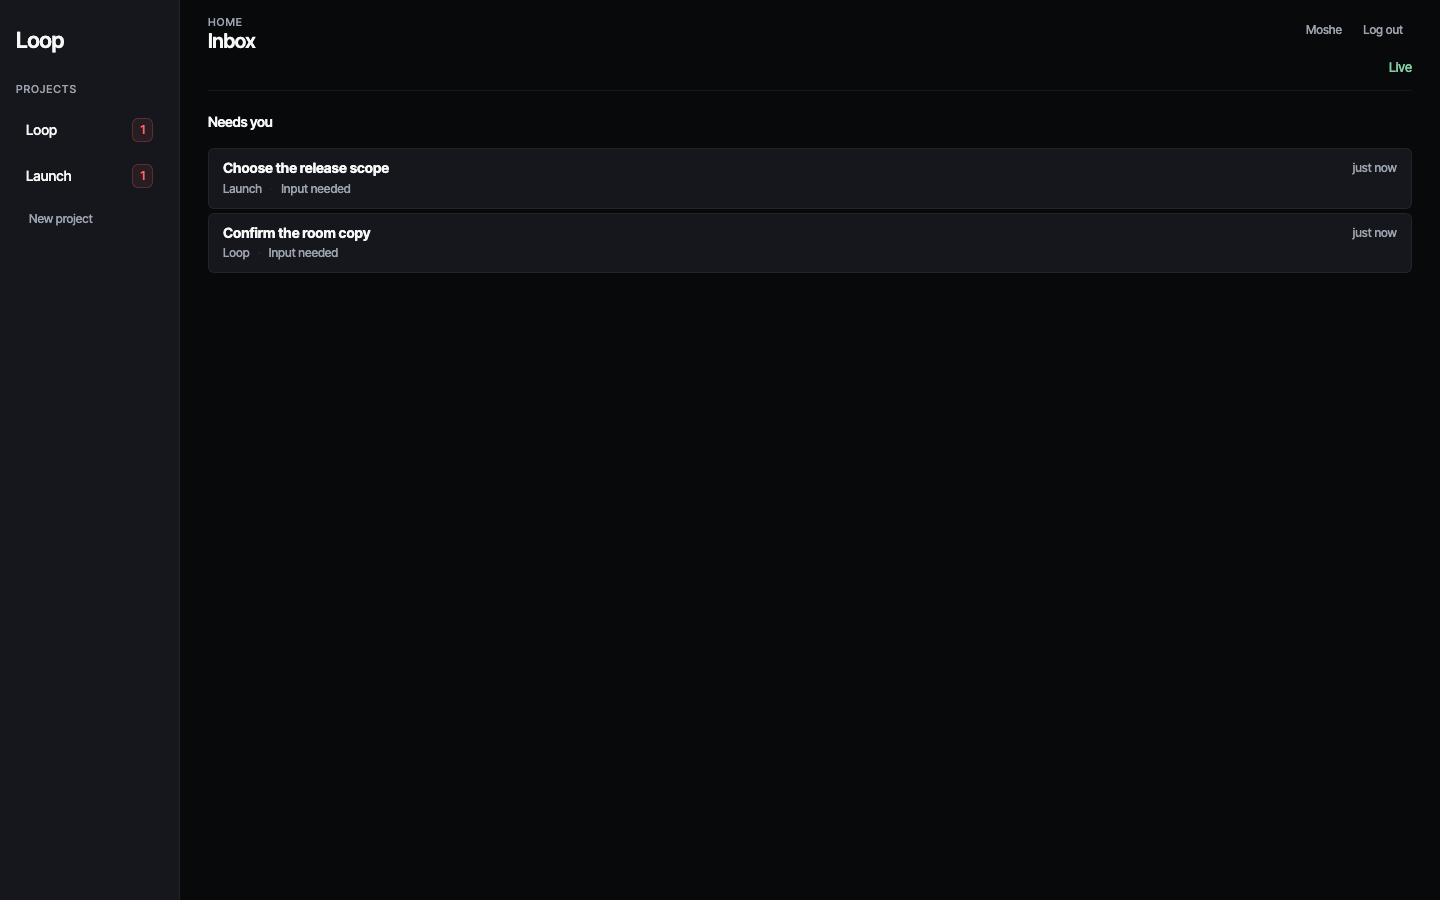
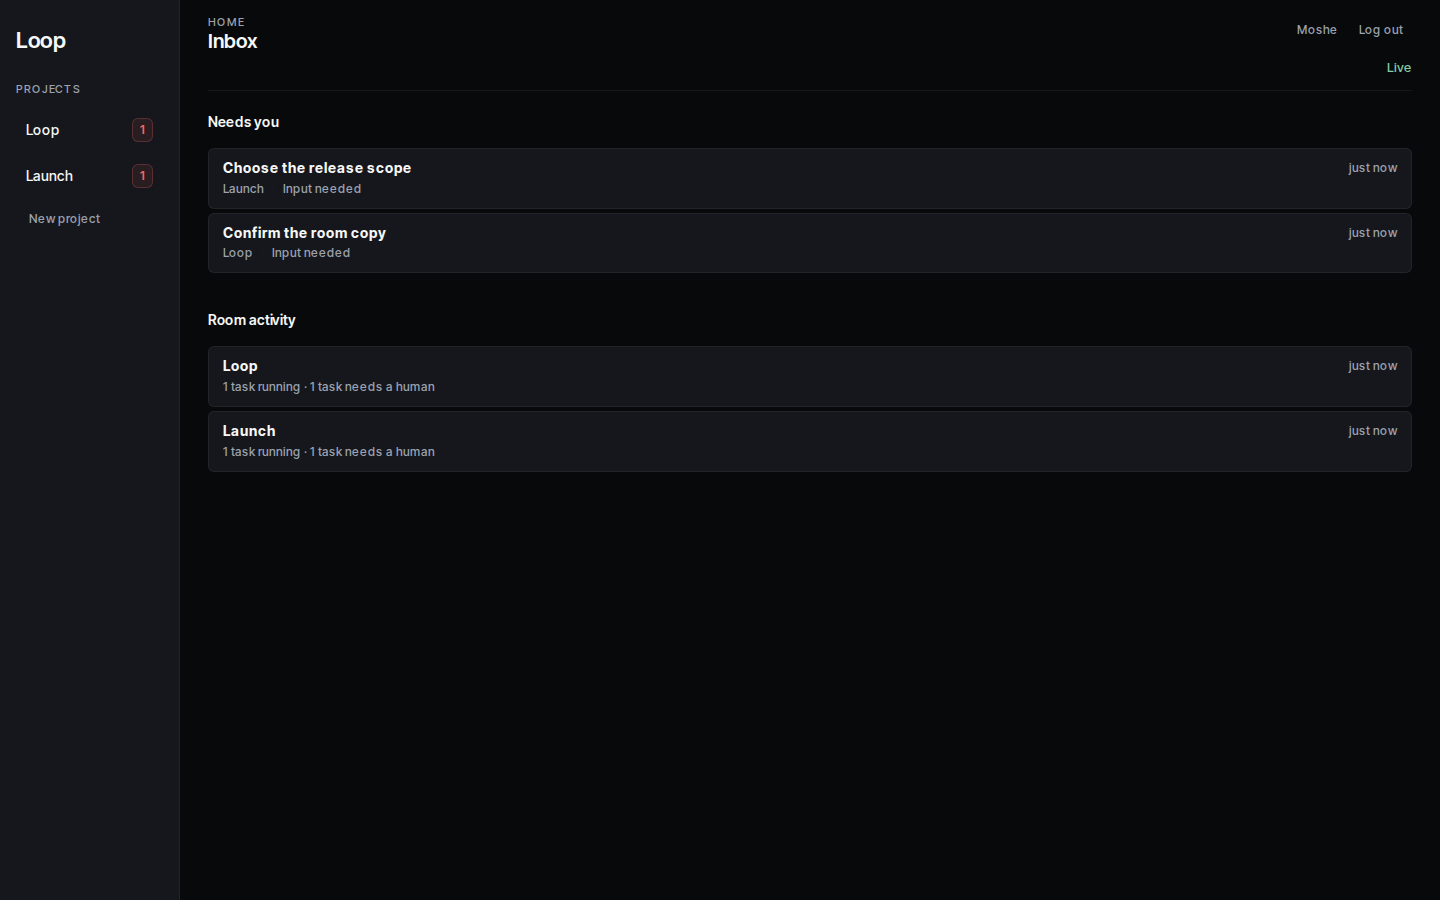
Show recent activity per room on Home.
UI.md section 7 asks Home to aggregate three things across rooms. "Needs
you" already shipped; this adds the second, "Recent activity per room, one
line each". "Spend today across all crews" stays untouched.

Home already holds every room's tasks client side, so RoomActivity reads the
same list the "Needs you" queue reads. No endpoint, no dependency, no fetch.

Each row is a button carrying data-room, showing the room name, a count line
in the repository's task vocabulary ("2 tasks running", "1 task needs a
human"), and the relative time of the newest task update. Rooms sort by the
newest task updatedAt, and a room nobody has used yet sorts last and reads
"No activity yet". Clicking a row calls the same selectRoom the rail calls,
so the URL becomes /?room=<id>.

tests/inbox-activity.spec.ts guards the region, the exact room set, the
order, the rendered counts, the empty-room line, and the click-through.

EVIDENCE.md is regenerated because the generator enumerates tests/*.spec.ts.

diff --git a/tests/inbox-activity.spec.ts b/tests/inbox-activity.spec.ts
@@ -1,0 +1,104 @@
+import { test, expect, type BrowserContext } from '@playwright/test';
+import type { Task } from '@loop/types';
+import { spawn } from 'node:child_process';
+import { mkdtempSync, rmSync } from 'node:fs';
+import { tmpdir } from 'node:os';
+import { join, resolve } from 'node:path';
+import { once } from 'node:events';
+import { authedContext, seedSession, withAuth } from './auth';
+
+test('Home lists recent activity per room, newest first, and opens the room', async ({ browser, request: raw }) => {
+  const dir = mkdtempSync(join(tmpdir(), 'loop-inbox-activity-'));
+  const session = seedSession(join(dir, 'loop.sqlite'));
+  const request = withAuth(raw, session.token);
+  const apiUrl = 'http://127.0.0.1:3101/api';
+  let context: BrowserContext | undefined;
+  let output = '';
+  const api = spawn(process.execPath, ['dist/src/main.js'], {
+    cwd: resolve('apps/api'),
+    env: { ...process.env, PORT: '3101', WEB_ORIGIN: 'http://127.0.0.1:3100',
+      DATABASE_PATH: join(dir, 'loop.sqlite'), LOOP_RUNNER: '0' },
+    stdio: ['ignore', 'pipe', 'pipe'],
+  });
+  api.stdout?.on('data', (chunk) => { output += chunk; });
+  api.stderr?.on('data', (chunk) => { output += chunk; });
+  async function addTask(title: string, roomId: string): Promise<Task> {
+    const response = await request.post(`${apiUrl}/tasks`, {
+      data: { title, definitionOfDone: 'The human decision is recorded.', roomId },
+    });
+    expect(response.status()).toBe(201);
+    return await response.json() as Task;
+  }
+  try {
+    await expect.poll(async () => {
+      if (api.exitCode !== null) throw new Error(output);
+      return request.get(`${apiUrl}/rooms/default`).then((response) => response.status()).catch(() => 0);
+    }).toBe(200);
+    // Three rooms: "Loop" (the seeded default) touched first, "Launch" touched
+    // last, and "Quiet" never touched at all.
+    const launchResponse = await request.post(`${apiUrl}/rooms`, { data: { name: 'Launch' } });
+    expect(launchResponse.status()).toBe(201);
+    const launch = await launchResponse.json();
+    const quietResponse = await request.post(`${apiUrl}/rooms`, { data: { name: 'Quiet' } });
+    expect(quietResponse.status()).toBe(201);
+    const quiet = await quietResponse.json();
+
+    // Oldest touch: one active task in the default room.
+    await addTask('Confirm the room copy', 'default');
+    await new Promise((done) => setTimeout(done, 1100));
+    // Newest touch: two active tasks in Launch, one of them parked on a human.
+    await addTask('Choose the release scope', launch.id);
+    const parked = await addTask('Approve the launch note', launch.id);
+    expect((await request.patch(`${apiUrl}/tasks/${parked.id}/status`, { data: { status: 'needs_input' } })).ok()).toBeTruthy();
+
+    context = await authedContext(browser, session.token);
+    const page = await context.newPage();
+    await page.goto('http://127.0.0.1:3100/');
+    await expect(page).toHaveURL('http://127.0.0.1:3100/');
+    const activity = page.getByRole('region', { name: 'Room activity', exact: true });
+    await expect(activity).toBeVisible();
+    await expect(activity.getByRole('heading', { name: 'Room activity', exact: true })).toBeVisible();
+
+    const rows = activity.locator('[data-activity-room]');
+    // Exactly the seeded rooms, most recently touched first, untouched last.
+    await expect(rows).toHaveCount(3);
+    await expect(rows.nth(0)).toHaveAttribute('data-activity-room', launch.id);
+    await expect(rows.nth(1)).toHaveAttribute('data-activity-room', 'default');
+    await expect(rows.nth(2)).toHaveAttribute('data-activity-room', quiet.id);
+    await expect(rows.nth(0)).toContainText('Launch');
+    await expect(rows.nth(1)).toContainText('Loop');
+    await expect(rows.nth(2)).toContainText('Quiet');
+
+    // The counts the row renders, in the repository's task vocabulary.
+    await expect(rows.nth(0)).toContainText('2 tasks running');
+    await expect(rows.nth(0)).toContainText('1 task needs a human');
+    await expect(rows.nth(1)).toContainText('1 task running');
+    await expect(rows.nth(1)).not.toContainText('needs a human');
+    await expect(rows.nth(2)).toContainText('No activity yet');
+    // A touched room carries a relative time; an untouched one carries none.
+    await expect(rows.nth(0).locator('time')).toHaveCount(1);
+    await expect(rows.nth(2).locator('time')).toHaveCount(0);
+    // The rail is a separate control surface and stays unselected on Home.
+    await expect(page.locator('#projects-rail [aria-current]')).toHaveCount(0);
+
+    // Clicking a row opens that room exactly like the rail does.
+    await rows.nth(0).click();
+    await expect(page).toHaveURL(`http://127.0.0.1:3100/?room=${launch.id}`);
+    await expect(page.locator(`#projects-rail [data-room="${launch.id}"]`)).toHaveAttribute('aria-current', 'page');
+    await expect(page.getByRole('region', { name: 'Room activity', exact: true })).toHaveCount(0);
+
+    // Going back restores Home and the activity list.
+    await page.goBack();
+    await expect(page).toHaveURL('http://127.0.0.1:3100/');
+    await expect(rows).toHaveCount(3);
+    await expect(rows.nth(0)).toContainText('2 tasks running');
+  } finally {
+    await context?.close();
+    if (api.exitCode === null) {
+      const exited = once(api, 'exit');
+      api.kill('SIGKILL');
+      await exited;
+    }
+    rmSync(dir, { recursive: true, force: true });
+  }
+});

diff --git a/apps/web/components/RoomActivity.tsx b/apps/web/components/RoomActivity.tsx
@@ -1,0 +1,53 @@
+import { isActiveStatus, relativeAgo, type RoomSummary, type Task } from '@loop/types';
+import { needsHumanCount } from '../lib/feed';
+
+/**
+ * UI.md section 7: "Recent activity per room, one line each". Home already
+ * holds every room's tasks client side, so this reads the same list the
+ * "Needs you" queue reads and never fetches.
+ */
+function summarise(total: number, active: number, waiting: number): string {
+  if (total === 0) return 'No activity yet';
+  const parts: string[] = [];
+  if (active > 0) parts.push(active === 1 ? '1 task running' : `${active} tasks running`);
+  if (waiting > 0) parts.push(waiting === 1 ? '1 task needs a human' : `${waiting} tasks need a human`);
+  if (parts.length === 0) return 'No tasks running';
+  return parts.join(' \u00b7 ');
+}
+
+export default function RoomActivity({ tasks, rooms, onOpenRoom }: {
+  tasks: Task[];
+  rooms: RoomSummary[];
+  onOpenRoom: (id: string) => void;
+}) {
+  // Newest touched room first; a room nobody has used yet sorts last on ''.
+  const rows = rooms.map((room) => {
+    const owned = tasks.filter((task) => task.roomId === room.id);
+    return {
+      room,
+      total: owned.length,
+      active: owned.filter((task) => isActiveStatus(task.status)).length,
+      waiting: needsHumanCount(owned),
+      newest: owned.reduce((latest, task) => task.updatedAt > latest ? task.updatedAt : latest, ''),
+    };
+  }).sort((a, b) => b.newest.localeCompare(a.newest) || a.room.name.localeCompare(b.room.name));
+  return <section aria-label="Room activity" className="inbox room-activity">
+    <h2>Room activity</h2>
+    <ol className="inbox-list">
+      {rows.map((row) => <li key={row.room.id}>
+        {/* The rail owns data-room. This list is a second surface for the same
+            rooms, so it carries its own attribute and a rail query stays exact. */}
+        <button type="button" className="inbox-row room-activity-row" data-activity-room={row.room.id}
+          onClick={() => onOpenRoom(row.room.id)}>
+          <strong className="inbox-title room-activity-name">{row.room.name}</strong>
+          {row.newest
+            ? <time className="inbox-time" dateTime={row.newest} title={row.newest}>{relativeAgo(row.newest)}</time>
+            : null}
+          <span className="inbox-sub">
+            <span className="room-activity-summary">{summarise(row.total, row.active, row.waiting)}</span>
+          </span>
+        </button>
+      </li>)}
+    </ol>
+  </section>;
+}

diff --git a/apps/web/components/Inbox.tsx b/apps/web/components/Inbox.tsx
@@ -1,10 +1,12 @@
 import { isFailureStatus, relativeAgo, type RoomSummary, type Task } from '@loop/types';
 import { needsHumanTasks } from '../lib/feed';
+import RoomActivity from './RoomActivity';
 
-export default function Inbox({ tasks, rooms, onSelect }: {
+export default function Inbox({ tasks, rooms, onSelect, onOpenRoom }: {
   tasks: Task[];
   rooms: RoomSummary[];
   onSelect: (task: Task) => void;
+  onOpenRoom: (id: string) => void;
 }) {
   const waiting = needsHumanTasks(tasks)
     .sort((a, b) => a.updatedAt.localeCompare(b.updatedAt) || a.id.localeCompare(b.id));
@@ -12,7 +14,8 @@ export default function Inbox({ tasks, rooms, onSelect }: {
   // telling what the Inbox is for; an emptied queue is a human who cleared their
   // work and wants to know that, not an onboarding pitch.
   const firstRun = tasks.length === 0;
-  return <section aria-label="Inbox" className="inbox">
+  return <>
+    <section aria-label="Inbox" className="inbox">
     <h2>Needs you</h2>
     {waiting.length === 0 ? <div className="inbox-empty">
       <p className="inbox-empty-title">{firstRun ? 'Nothing needs you yet' : 'Nothing needs you'}</p>
@@ -47,5 +50,7 @@ export default function Inbox({ tasks, rooms, onSelect }: {
         </li>;
       })}
     </ol>}
-  </section>;
+    </section>
+    <RoomActivity tasks={tasks} rooms={rooms} onOpenRoom={onOpenRoom} />
+  </>;
 }

diff --git a/apps/web/app/globals.css b/apps/web/app/globals.css
@@ -317,6 +317,14 @@ nav .logout { margin-left: 12px; }
 .inbox-empty-body { font-size: 13px; line-height: 1.6; margin-bottom: 16px; }
 .inbox-empty-action { font-size: 13px; background: var(--accent); border-color: transparent; color: var(--text); }
 .inbox-empty-action:hover:not(:disabled) { background: var(--accent-hover); border-color: transparent; }
+/* Room activity reuses the queue row's two-line grid, so both lists on Home
+   scan at one density instead of reading as two different apps. The room name
+   takes the title slot, the newest touch takes the time slot, and the counts
+   take the sub line. */
+.room-activity { padding-top: 32px; }
+.room-activity-row:hover { border-color: var(--border); }
+.room-activity-name { color: var(--text); }
+.room-activity-summary { color: var(--secondary); overflow: hidden; text-overflow: ellipsis; white-space: nowrap; }
 .auth-panel { width: 100%; max-width: 420px; padding-top: 12px; }
 .auth-panel > .muted { font-size: 13px; line-height: 1.6; }
 .auth-panel h2 { margin-bottom: 8px; }

diff --git a/apps/web/components/Room.tsx b/apps/web/components/Room.tsx
@@ -313,7 +313,7 @@ export default function Room() {
       pendingTask.current = task.id;
       setView('chat');
       selectRoom(task.roomId);
-    }} /> : view === 'chat' ? <section aria-label="Chat">
+    }} onOpenRoom={(id) => { setView('chat'); selectRoom(id); }} /> : view === 'chat' ? <section aria-label="Chat">
       <Transcript tasks={state.tasks} messages={state.messages} files={files} onOpenThread={openThread} onOpenArtifact={openArtifact} />
       <Composer author={me.displayName} roomId={selected} />
     </section> : view === 'tasks' ? <TasksPanel

diff --git a/EVIDENCE.md b/EVIDENCE.md
@@ -2,7 +2,7 @@
 
 Generated by `npm run evidence` from repository facts plus the lint, test, and build commands.
 Browser tests are listed by spec name and are not executed here.
-Parent commit: 727f5828a3faec93f7981bacaa6b0ff98d0ba728
+Parent commit: d105e53017e6273e9701f6fc1b7df43148fd4b86
 The recorded SHA is the commit the generator ran against. This file is committed afterwards, so the SHA is the parent of the evidence commit. The staleness gate ignores that line.
 
 ## Workspaces
@@ -117,6 +117,9 @@ tests/files.spec.ts
 - the stored path does not contain the uploaded filename
 - LOOP_TASK_FILES lists only that room files and the agent can read one
 - Files view shows an uploaded file and a member sees the file card
+
+tests/inbox-activity.spec.ts
+- Home lists recent activity per room, newest first, and opens the room
 
 tests/inbox.spec.ts
 - Inbox stays home, orders cross-room parked work, opens Task detail, and updates to empty
